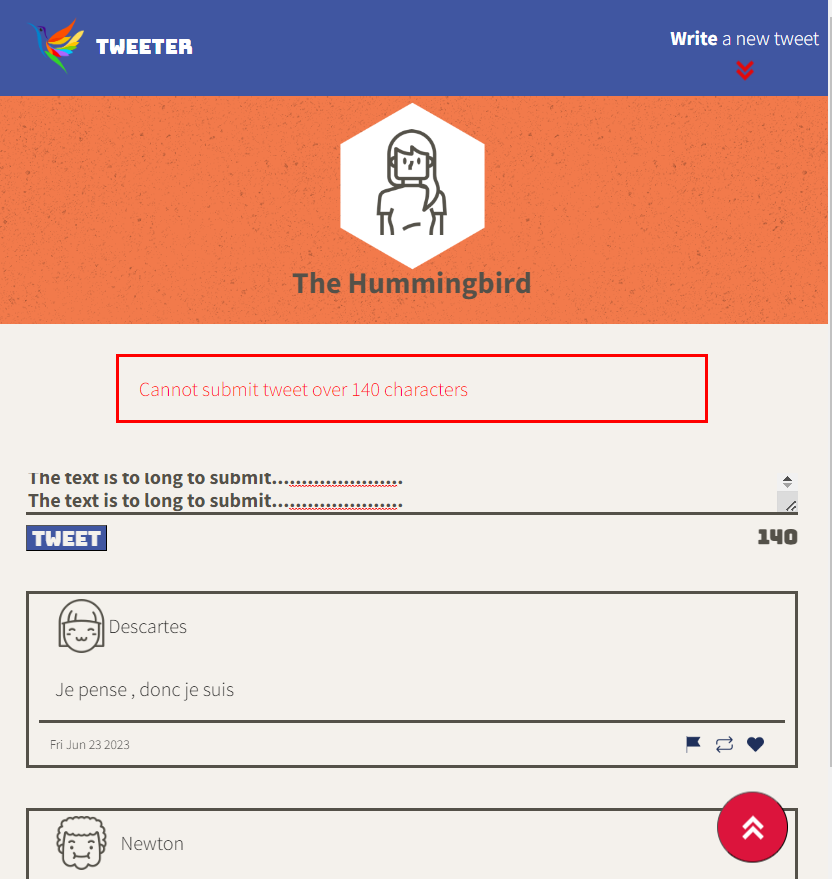
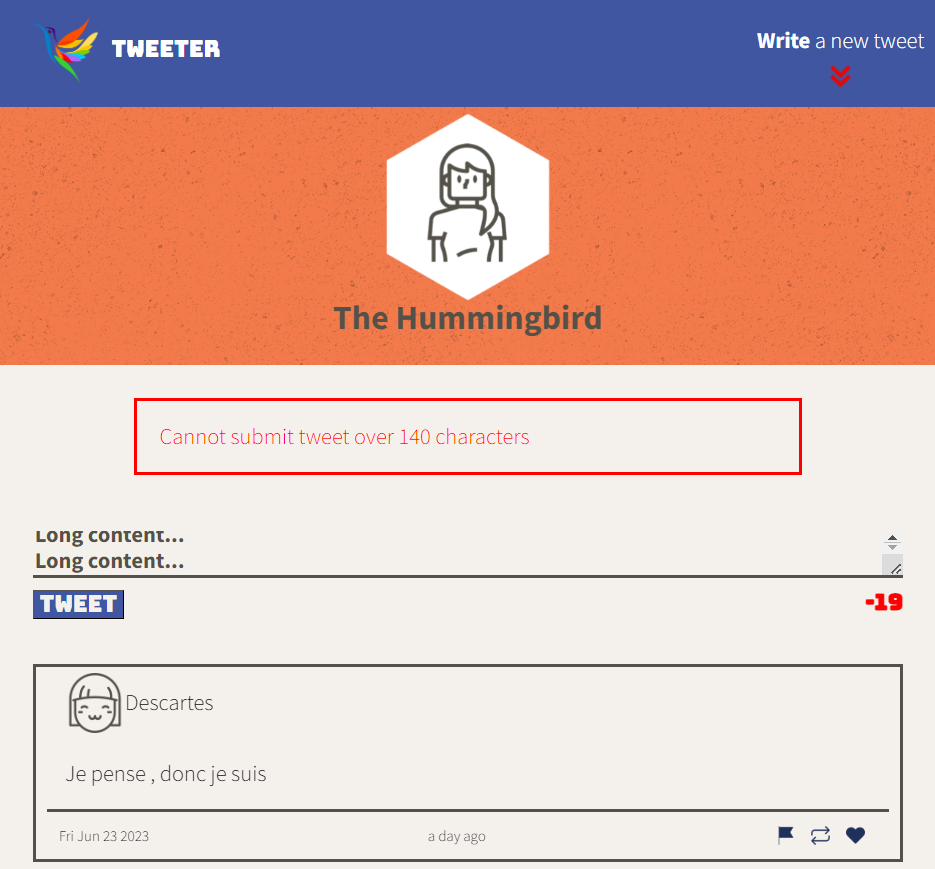
added Readme & refactored timeago

Changed region(s): [[0.0, 0.0, 1.0, 1.0]]

diff --git a/public/scripts/composer-char-counter.js b/public/scripts/composer-char-counter.js
@@ -1,11 +1,13 @@
-$$(document).ready(function() {
-
+$(document).ready(function() {
   //hides the form to submit the new tweet & back up button on load
   $('#downBtn').hide();
   $('#form').hide();
 
+  
+
   $("#textBar").on('input', function() {
     const maxCount = 140;
+
     let inputLength = $(this).val().length;
     $(this).nextAll('.counter').text(maxCount - inputLength);
     if (inputLength > 140) {
@@ -14,6 +16,22 @@ $$(document).ready(function() {
       $(this).nextAll('.counter').css("color", "#545149");
     }
   });
+
+//   const maxCount = 140;
+  
+//   $('#myTextarea').on('input', function() {
+//     let inputLength = $(this).val().length;
+//     let remainingCount = maxCount - inputLength;
+    
+//     $(this).nextAll('.counter').text(remainingCount);
+    
+//     if (inputLength > maxCount) {
+//       $(this).nextAll('.counter').css("color", "red");
+//     } else {
+//       $(this).nextAll('.counter').css("color", "#545149");
+//     }
+//   });
+// });
 
 //when the user scroll past 230px it displays the second toggle button
 $(window).scroll(function() {

diff --git a/public/scripts/client.js b/public/scripts/client.js
@@ -42,10 +42,20 @@ const createTweetElement = function(tweetData) {
   //create footer appended to the tweet article
 
   let $footer = $("<footer>");
+
   $('<p>')
     .text(new Date(tweetData["created_at"]).toDateString())
     .appendTo($footer);
 
+    $('<p>')
+    .addClass('timeago')
+    .attr('title', new Date(tweetData["created_at"]).toISOString())
+    .appendTo($footer);
+
+    $('p.timeago').ready(function() {
+      $("p.timeago").timeago();
+    })
+    
     let $footerDiv = $('<div>');
     $('<img>')
       .attr('src', '../images/flag.png')
@@ -70,6 +80,7 @@ const renderTweets = function(tweets) {
     const $tweet = createTweetElement(tweet);
     $('#tweetSection').prepend($tweet);
   }
+  $('#textBar').val('');
 };
 
 //checks for error message and returns it for display

diff --git a/public/index.html b/public/index.html
@@ -21,9 +21,10 @@
     <script src="https://ajax.googleapis.com/ajax/libs/jquery/3.4.1/jquery.min.js"></script>
 
     <!-- App JS -->
+    <script src="https://cdnjs.cloudflare.com/ajax/libs/jquery-timeago/1.4.3/jquery.timeago.js"></script>
     <script type="text/javascript" src="/scripts/client.js"></script>
     <script type="text/javascript" src="/scripts/composer-char-counter.js"></script>
-
+    </script>
   </head>
 
   <body>
